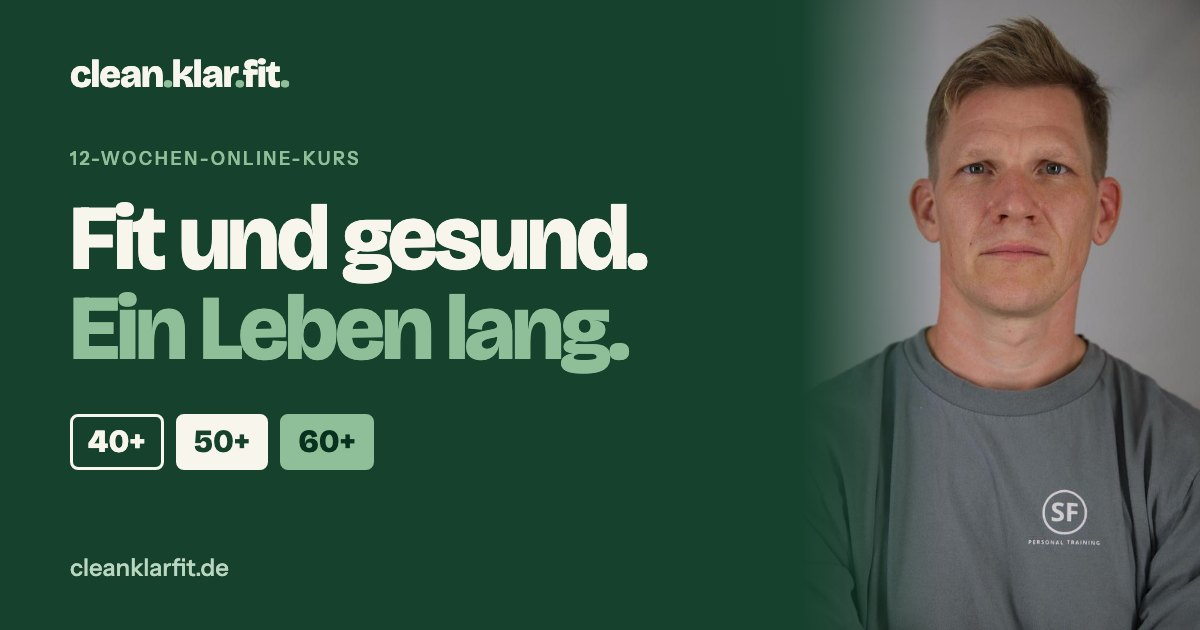
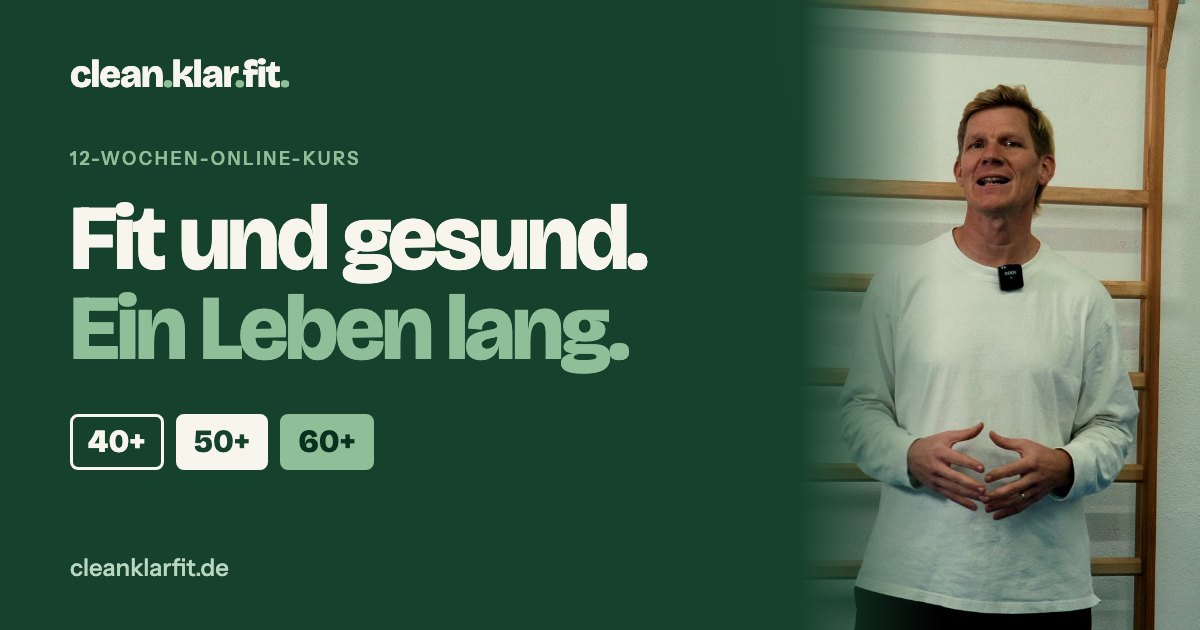
Neues Hauptfoto aus Projekt 17, Vorschaubild aktualisiert

Changed region(s): [[0.6783, 0.0, 1.0, 1.0]]

diff --git a/index.html b/index.html
@@ -61,7 +61,7 @@
       "name": "Florian Schwab",
       "jobTitle": "Personal Trainer",
       "description": "Personal Trainer aus Stuttgart mit 10 Jahren Erfahrung, Fitnesstrainer A-Lizenz und Movement & Mobility Coach.",
-      "image": "https://cleanklarfit.de/bilder/florian-portrait.jpg",
+      "image": "https://cleanklarfit.de/bilder/florian-hero.jpg",
       "url": "https://sf-personaltraining.de/",
       "worksFor": { "@type": "Organization", "name": "SF Personal Training", "url": "https://sf-personaltraining.de/" },
       "knowsAbout": ["Krafttraining", "Mobility", "Ernährung", "Abnehmen", "Muskelaufbau", "Rückengesundheit"],
@@ -138,7 +138,7 @@
     <div class="hero-img photo rv" style="--d:3">
       <picture>
         <source srcset="bilder/florian-hero.webp" type="image/webp">
-        <img src="bilder/florian-hero.jpg" width="680" height="850" alt="Florian Schwab, Personal Trainer aus Stuttgart, mit verschränkten Armen" fetchpriority="high">
+        <img src="bilder/florian-hero.jpg" width="760" height="950" alt="Florian Schwab, Personal Trainer aus Stuttgart, lächelt an der Sprossenwand im Studio" fetchpriority="high">
       </picture>
       <div class="tag"><b>10 Jahre Personal Training</b>jetzt als strukturierter Online-Kurs</div>
     </div>
